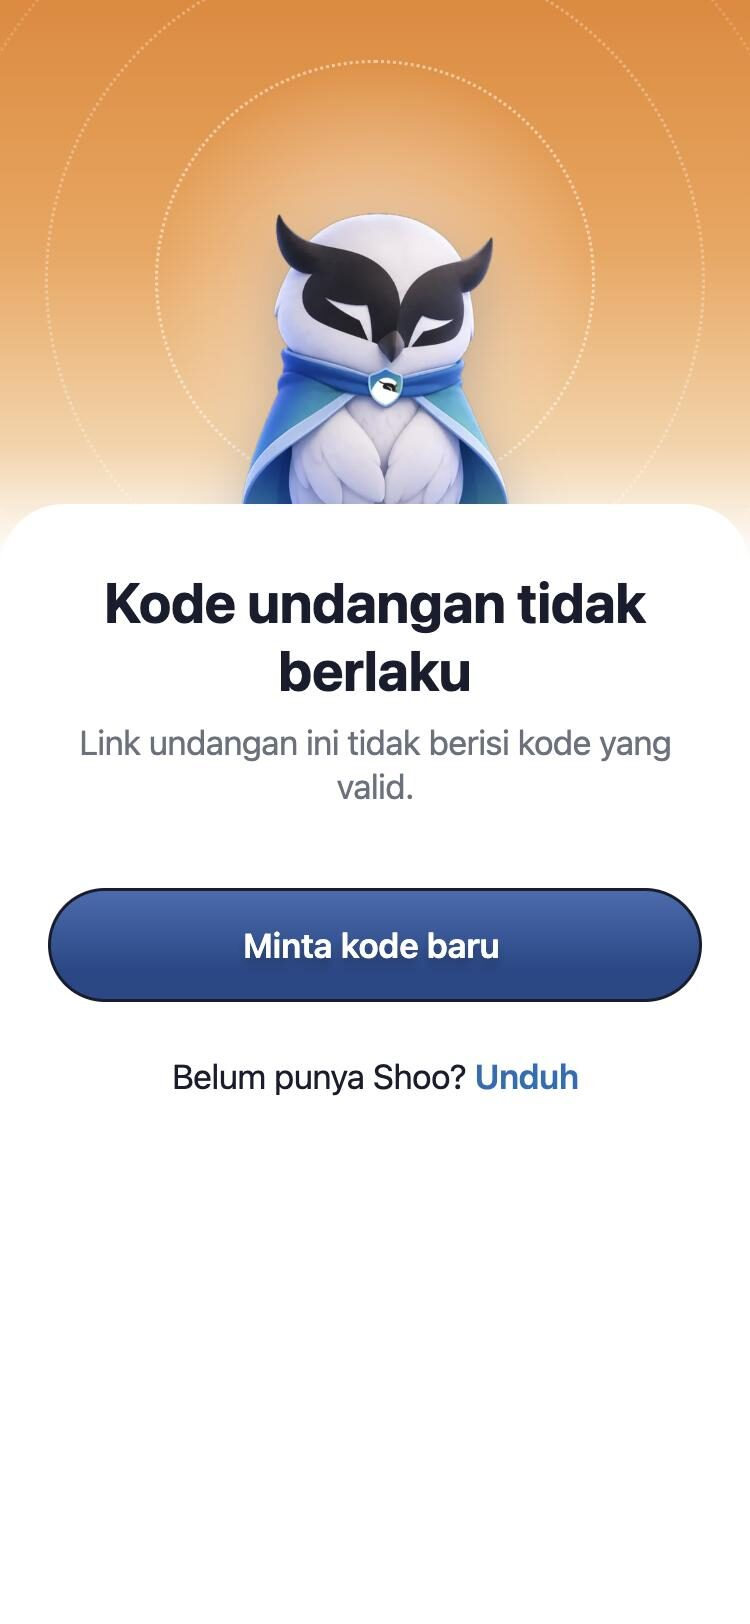
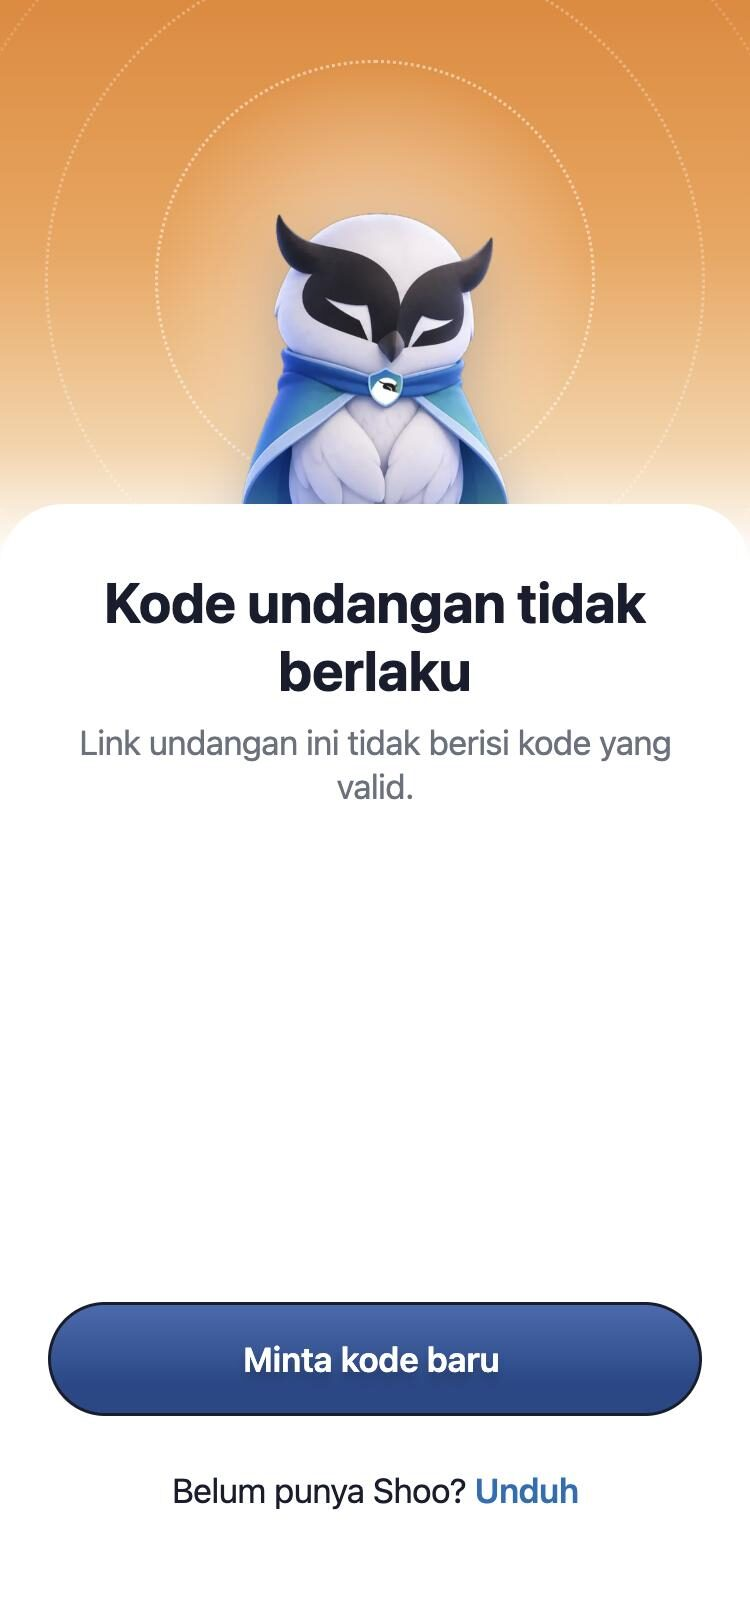
PR-03: join page button at the bottom of the screen
Main fills the viewport and the actions take the free space above them, like
the app's CTAs. On a short screen (320x568) they follow the content with a
40 px gap and the page scrolls.

Changed region(s): [[0.0613, 0.8005, 0.9507, 0.9236], [0.0613, 0.5234, 0.9507, 0.6158], [0.2147, 0.6466, 0.7667, 0.6773]]

diff --git a/backend/api/src/routes/join-page.ts b/backend/api/src/routes/join-page.ts
@@ -89,8 +89,8 @@ const csp = (nonce: string) =>
 // Figma 1326:12651 tokens, with the app's Shield home sky (blue; orange "Perlu Waspada" for a dead link).
 // Light only. SF Pro Rounded comes from the system (ui-rounded); the CSP loads no web fonts.
 const STYLE = `*{box-sizing:border-box}
-body{margin:0;background:#fff;color:#191d2f;font:17px/22px -apple-system,system-ui,sans-serif;text-align:center;-webkit-text-size-adjust:100%}
-.sky{position:relative;height:280px;overflow:hidden;background:linear-gradient(180deg,#1f7fdc 0%,#46a6ec 45%,#9ad3f6 80%,#fff 100%)}
+body{margin:0;min-height:100vh;min-height:100svh;display:flex;flex-direction:column;background:#fff;color:#191d2f;font:17px/22px -apple-system,system-ui,sans-serif;text-align:center;-webkit-text-size-adjust:100%}
+.sky{position:relative;flex:none;height:280px;overflow:hidden;background:linear-gradient(180deg,#1f7fdc 0%,#46a6ec 45%,#9ad3f6 80%,#fff 100%)}
 .sky.warn{background:linear-gradient(180deg,#e9862a 0%,#f3a457 45%,#f9d3a8 80%,#fff 100%)}
 .sky i{position:absolute;left:50%;top:140px;border-radius:50%;transform:translate(-50%,-50%);pointer-events:none}
 .sky .glow{width:220px;height:220px;background:radial-gradient(circle,rgba(255,255,255,.55),rgba(255,255,255,0) 70%)}
@@ -102,7 +102,7 @@ body{margin:0;background:#fff;color:#191d2f;font:17px/22px -apple-system,system-
 @keyframes pop{from{transform:translateY(24px) scale(.9);opacity:0}to{transform:none;opacity:1}}
 @keyframes bob{0%,100%{transform:none}50%{transform:translateY(-5px)}}
 @keyframes rise{from{opacity:0;transform:translateY(8px)}to{opacity:1;transform:none}}
-main{position:relative;max-width:402px;margin:-28px auto 0;padding:28px 24px 40px;background:#fff;border-radius:32px 32px 0 0;display:flex;flex-direction:column;align-items:center}
+main{position:relative;flex:1;width:100%;max-width:402px;margin:-28px auto 0;padding:28px 24px 40px;background:#fff;border-radius:32px 32px 0 0;display:flex;flex-direction:column;align-items:center}
 .enter>*{animation:rise .3s cubic-bezier(.2,.8,.2,1) .15s both}
 .enter>.actions{animation-delay:.23s}
 h1{margin:4px 0 0;font-size:28px;line-height:34px;font-weight:700;letter-spacing:-.01em}
@@ -117,7 +117,7 @@ h1{margin:4px 0 0;font-size:28px;line-height:34px;font-weight:700;letter-spacing
 .meta{display:flex;align-items:center;justify-content:space-between;width:100%;margin-top:8px}
 .ttl{display:flex;align-items:center;gap:6px;color:#6a717e;font-size:13px;line-height:18px;letter-spacing:-.08px}
 .copy{display:flex;align-items:center;gap:6px;min-height:44px;padding:0;border:0;background:none;color:#186fb9;font:inherit;font-weight:600;letter-spacing:-.01em;cursor:pointer}
-.actions{width:100%;margin-top:40px;display:flex;flex-direction:column;gap:10px}
+.actions{width:100%;margin-top:auto;padding-top:40px;display:flex;flex-direction:column;gap:10px}
 .btn{width:100%;font:inherit;font-weight:600;cursor:pointer;-webkit-tap-highlight-color:transparent;touch-action:manipulation;transition:transform .12s ease,filter .12s ease;display:flex;align-items:center;justify-content:center;gap:8px;min-height:54px;padding:16px 20px 16px 16px;border:1.5px solid #191d2f;border-radius:999px;background:linear-gradient(180deg,#446eb4 -4%,#214889 75%);color:#fff;font-weight:600;text-decoration:none;text-shadow:0 4px 4px rgba(0,0,0,.2)}
 .btn:active{transform:scale(.97);filter:brightness(.92)}
 .copy{transition:transform .12s ease}.copy:active{transform:scale(.97)}
@@ -130,6 +130,8 @@ h1{margin:4px 0 0;font-size:28px;line-height:34px;font-weight:700;letter-spacing
 /* Last, so it wins over the motion rules above. */
 @media (prefers-reduced-motion:reduce){.mascot,.enter>*{animation:none}.btn,.copy{transition:none}.btn:active,.copy:active{transform:none}}`;
 
+// The actions sit at the bottom of the screen (main fills the rest of the viewport), like the app's CTAs;
+// on a short screen they follow the content with a 40 px gap and the page scrolls.
 // Mascot motion: Shoo pops up over the sheet edge, then bobs gently (like the app's mascots). CSS only
 // (no script); off under prefers-reduced-motion. The image is decorative (alt=""): the heading says it.
 

diff --git a/backend/api/test/join-page.test.ts b/backend/api/test/join-page.test.ts
@@ -53,6 +53,10 @@ describe("GET /j/:code", () => {
     expect(html).toContain("Open in the Shoo app");
     expect(html).toContain('<div class="sky" aria-hidden="true">');
     expect(html).toContain('<img class="mascot" src="/og/mascot-wave.webp" width="148" height="180" alt="">');
+    // The button sits at the bottom of the screen: main fills the viewport, the actions take the free space above.
+    expect(html).toContain("body{margin:0;min-height:100vh;min-height:100svh;display:flex;flex-direction:column;");
+    expect(html).toContain("main{position:relative;flex:1;");
+    expect(html).toContain(".actions{width:100%;margin-top:auto;padding-top:40px;");
   });
 
   it("Install copies the invite link, then goes to the store; the only script carries the header's nonce", async () => {
